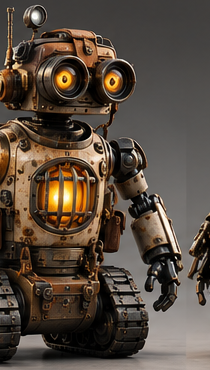
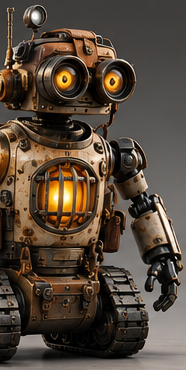
Fix Valve crop bleed and strengthen portraits test
Valve's box was too wide on the right: the neighbouring 3/4-front
figure's outstretched hand intruded at the crop edge, visible as a
disembodied arm. Narrowed right 360 -> 336. No other character's box
changed.

The bleed survived two visual passes because at contact-sheet scale the
intruding hand reads as part of Valve's own machinery. It is only
obvious when the portrait is viewed at full size.

Also strengthens tests/portraits.test.ts, which asserted only existence
and a 10KB floor — a near-vacuous check that a badly framed crop passes
trivially. Now asserts each portrait's pixel dimensions match its
crops.json box via sharp metadata, guarding the claim that committed
PNGs correspond to committed boxes and catching edits to crops.json that
skip re-running the derivation script.

Claude-Session: https://claude.ai/code/session_01GeE736XQc9Xa3CFtscm8DR

diff --git a/tests/portraits.test.ts b/tests/portraits.test.ts
@@ -1,6 +1,11 @@
 import { describe, it, expect } from 'vitest';
-import { existsSync, statSync } from 'node:fs';
+import { existsSync, statSync, readFileSync } from 'node:fs';
+import sharp from 'sharp';
 import { CHARACTER_COLOURS } from '../src/lib/palette';
+
+const boxes: Record<string, [number, number, number, number]> = JSON.parse(
+  readFileSync('scripts/crops.json', 'utf8'),
+);
 
 describe('character portraits', () => {
   it.each(Object.keys(CHARACTER_COLOURS))('%s portrait exists', (slug) => {
@@ -10,4 +15,16 @@ describe('character portraits', () => {
   it.each(Object.keys(CHARACTER_COLOURS))('%s portrait is a plausible crop', (slug) => {
     expect(statSync(`src/assets/characters/${slug}.png`).size).toBeGreaterThan(10_000);
   });
+
+  it.each(Object.keys(CHARACTER_COLOURS))(
+    '%s portrait dimensions match its crops.json box',
+    async (slug) => {
+      const [left, top, right, bottom] = boxes[slug];
+      const expectedWidth = right - left;
+      const expectedHeight = bottom - top;
+      const metadata = await sharp(`src/assets/characters/${slug}.png`).metadata();
+      expect(metadata.width).toBe(expectedWidth);
+      expect(metadata.height).toBe(expectedHeight);
+    },
+  );
 });
